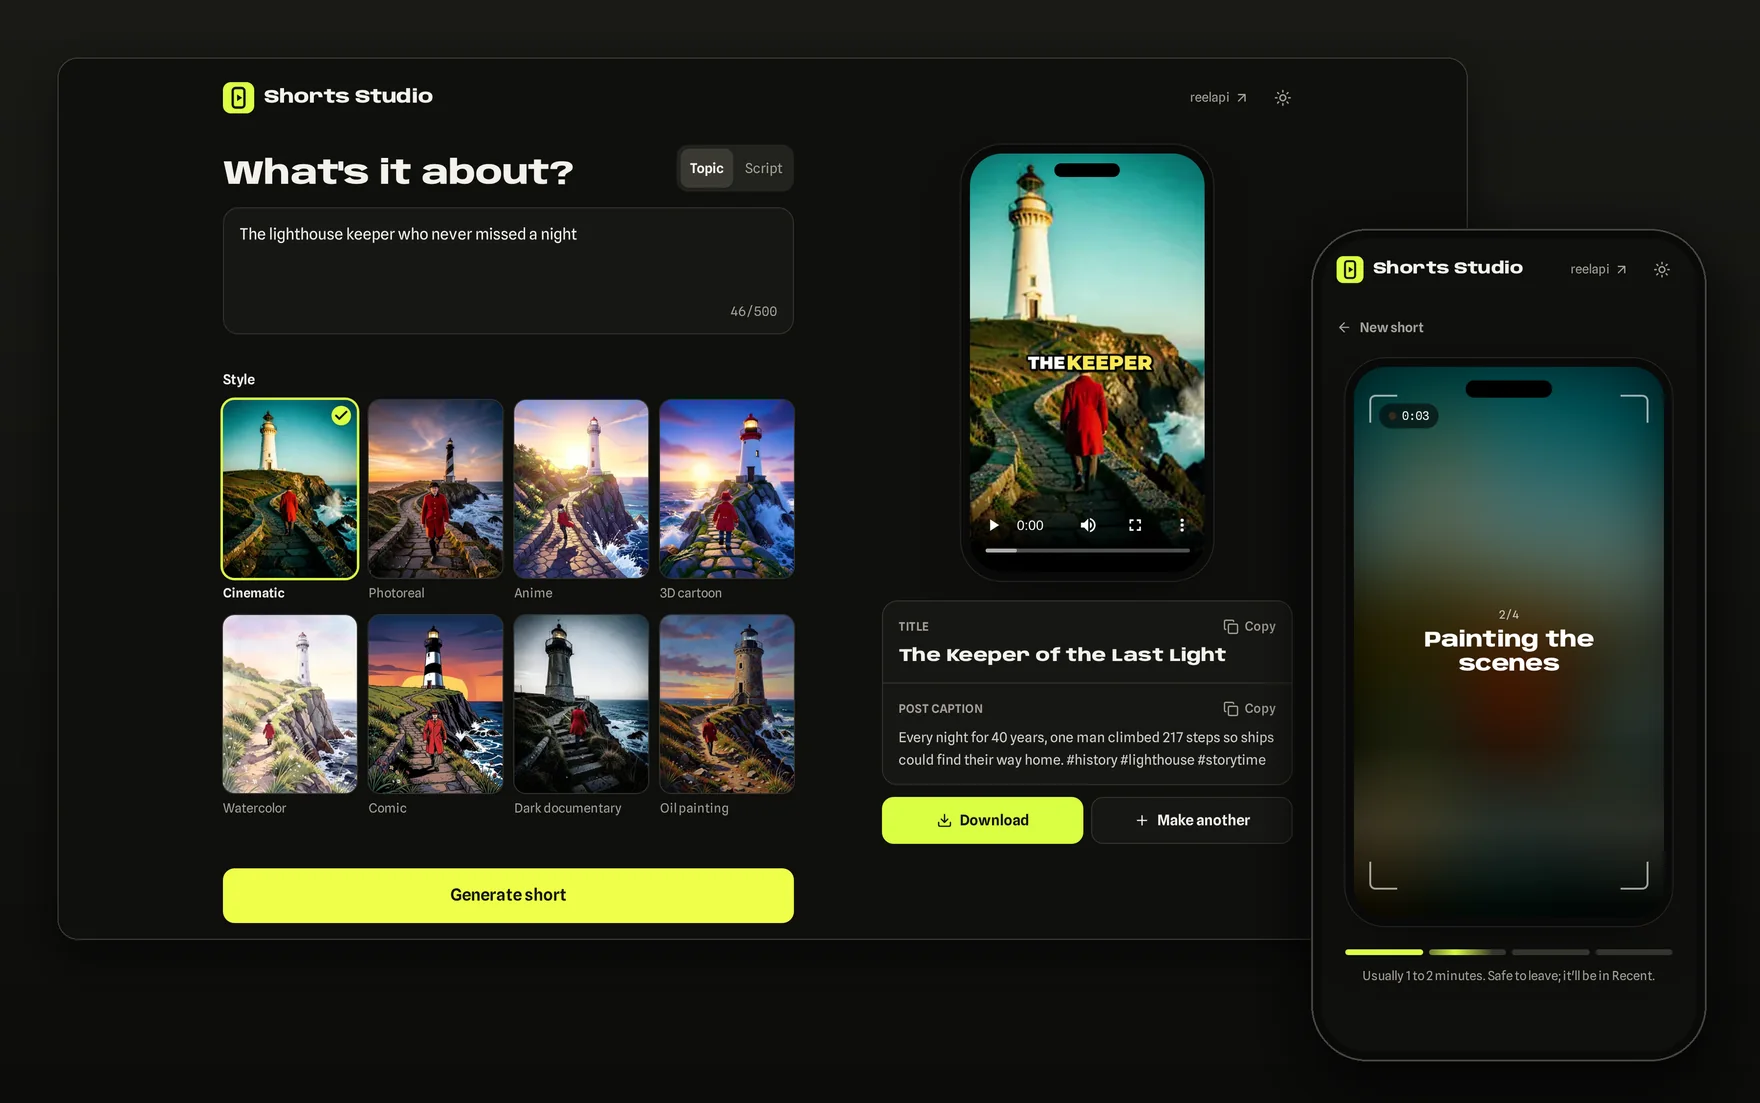
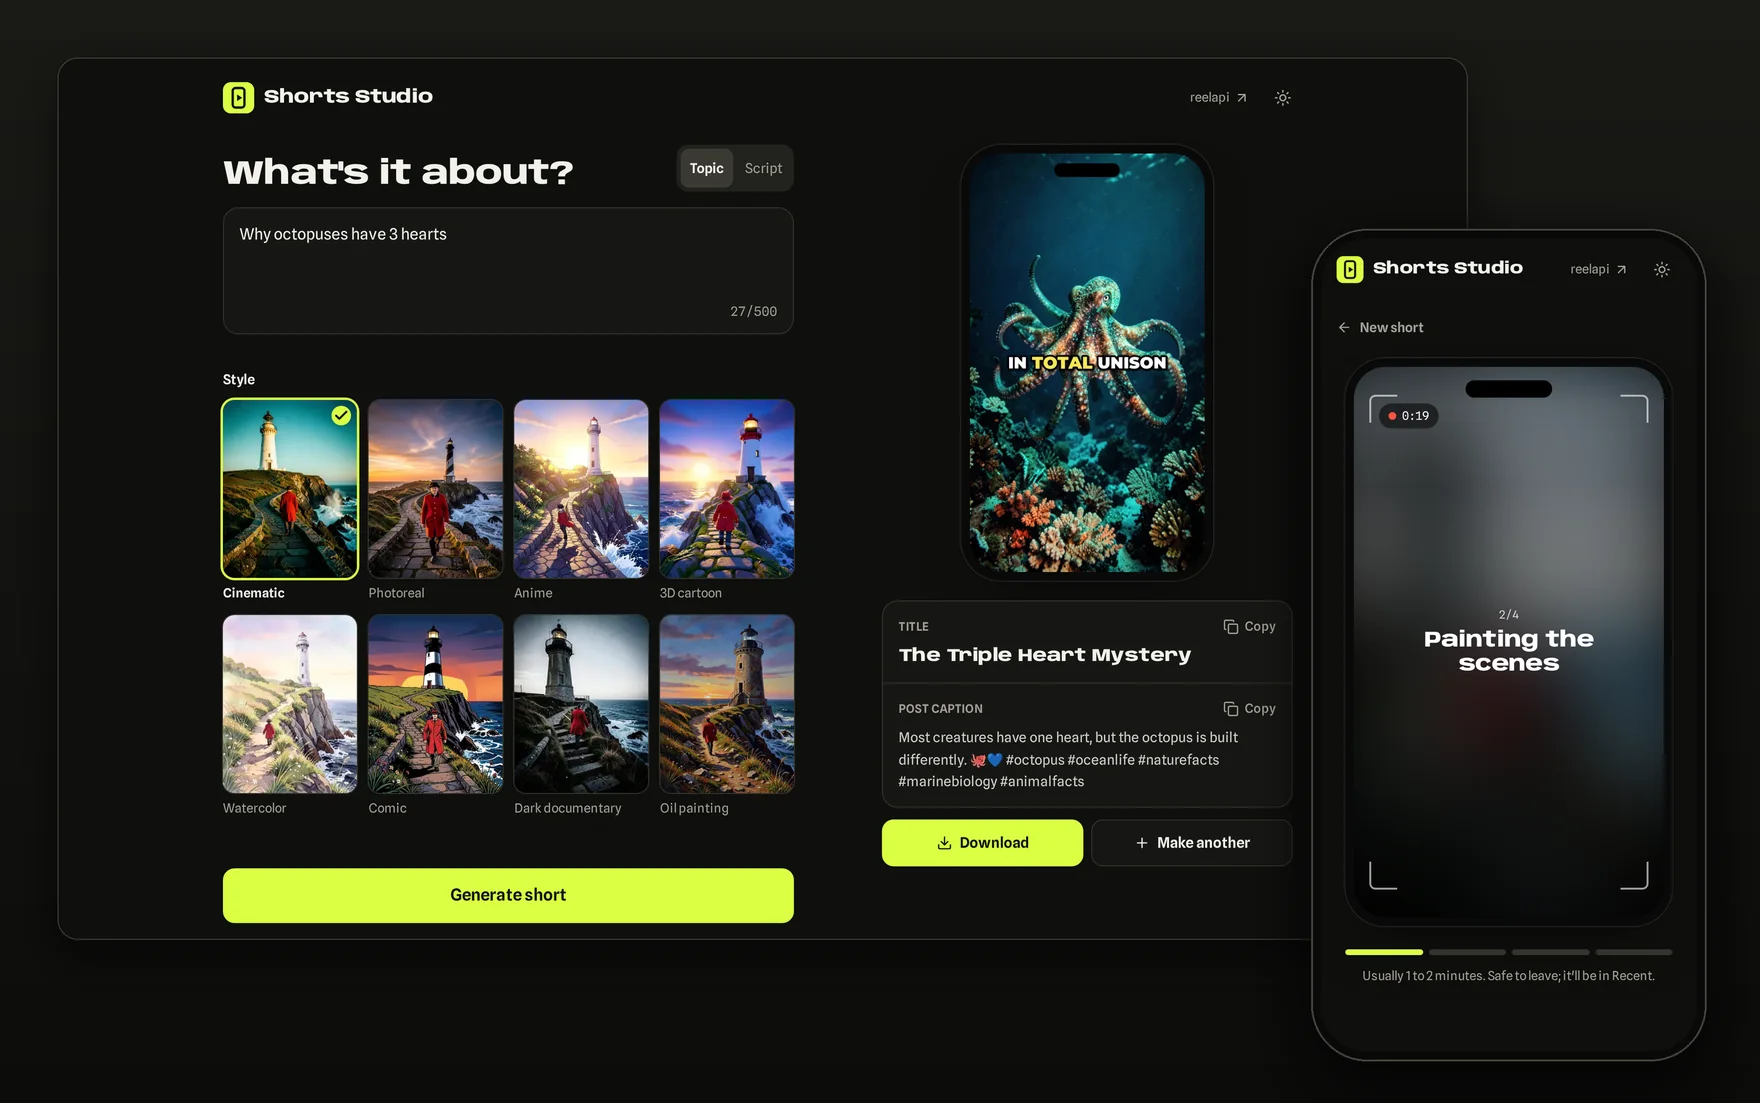
Hero from real generations, caption types match the live schema

diff --git a/src/lib/reelapi.ts b/src/lib/reelapi.ts
@@ -58,7 +58,7 @@ export type Quality = "draft" | "standard" | "high";
 export interface CaptionStyle {
   preset?: CaptionPreset;
   font?: "Montserrat" | "Anton" | "Bebas Neue" | "Poppins";
-  position?: "top" | "middle" | "bottom";
+  position?: "top" | "middle" | "bottom" | "center";
   /** Words on screen at once, 1..8 */
   max_words?: number;
   uppercase?: boolean;
@@ -92,7 +92,7 @@ export type ShortRequest = TopicOrScript & {
   voice?: EnVoice | EsVoice;
   music?: MusicMood;
   /** Defaults to the style's preset; `false` turns captions off */
-  captions?: false | CaptionPreset | CaptionStyle;
+  captions?: boolean | CaptionPreset | CaptionStyle;
   webhook_url?: string;
 };
 
